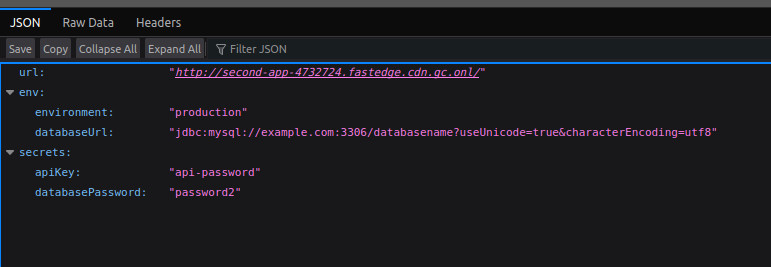
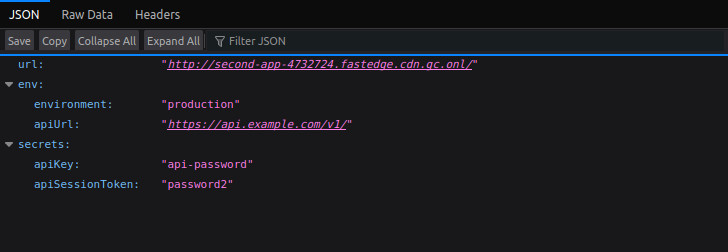
update params to not use db-password

diff --git a/github-actions/multi-app-workflows/src/second-app/index.js b/github-actions/multi-app-workflows/src/second-app/index.js
@@ -15,7 +15,7 @@ async function eventHandler(event) {
     url: request.url,
     env: {
       environment: getEnv("environment"),
-      databaseUrl: getEnv("database-url"),
+      apiUrl: getEnv("api-url"),
     },
     secrets: {
       apiKey: getSecret("api-key"),
@@ -23,7 +23,7 @@ async function eventHandler(event) {
        * getSecretEffectiveAt() allows for accessing secrets at different slots.
        * See https://g-core.github.io/FastEdge-sdk-js/reference/fastedgesecret/getsecreteffectiveat/
        */
-      databasePassword: getSecretEffectiveAt("database-password", 10),
+      apiSessionToken: getSecretEffectiveAt("api-session-token", 10),
     },
   };
 

diff --git a/github-actions/single-app-workflows/src/second-app/index.js b/github-actions/single-app-workflows/src/second-app/index.js
@@ -15,7 +15,7 @@ async function eventHandler(event) {
     url: request.url,
     env: {
       environment: getEnv("environment"),
-      databaseUrl: getEnv("database-url"),
+      apiUrl: getEnv("api-url"),
     },
     secrets: {
       apiKey: getSecret("api-key"),
@@ -23,7 +23,7 @@ async function eventHandler(event) {
        * getSecretEffectiveAt() allows for accessing secrets at different slots.
        * See https://g-core.github.io/FastEdge-sdk-js/reference/fastedgesecret/getsecreteffectiveat/
        */
-      databasePassword: getSecretEffectiveAt("database-password", 10),
+      apiSessionToken: getSecretEffectiveAt("api-session-token", 10),
     },
   };
 

diff --git a/github-actions/README.md b/github-actions/README.md
@@ -38,7 +38,7 @@ This application demonstrates how we can use "Response Headers", "Environment Va
 
 Setting `secret_slots` secret within the Github Settings.
 
-![DATABASE_PASSWORD](./assets/database_password_secret_slots.jpg)
+![API_SESSION_TOKEN](./assets/api-session-token-slots.jpg)
 
 This application will respond with all the set values as `application/json` e.g.
 
